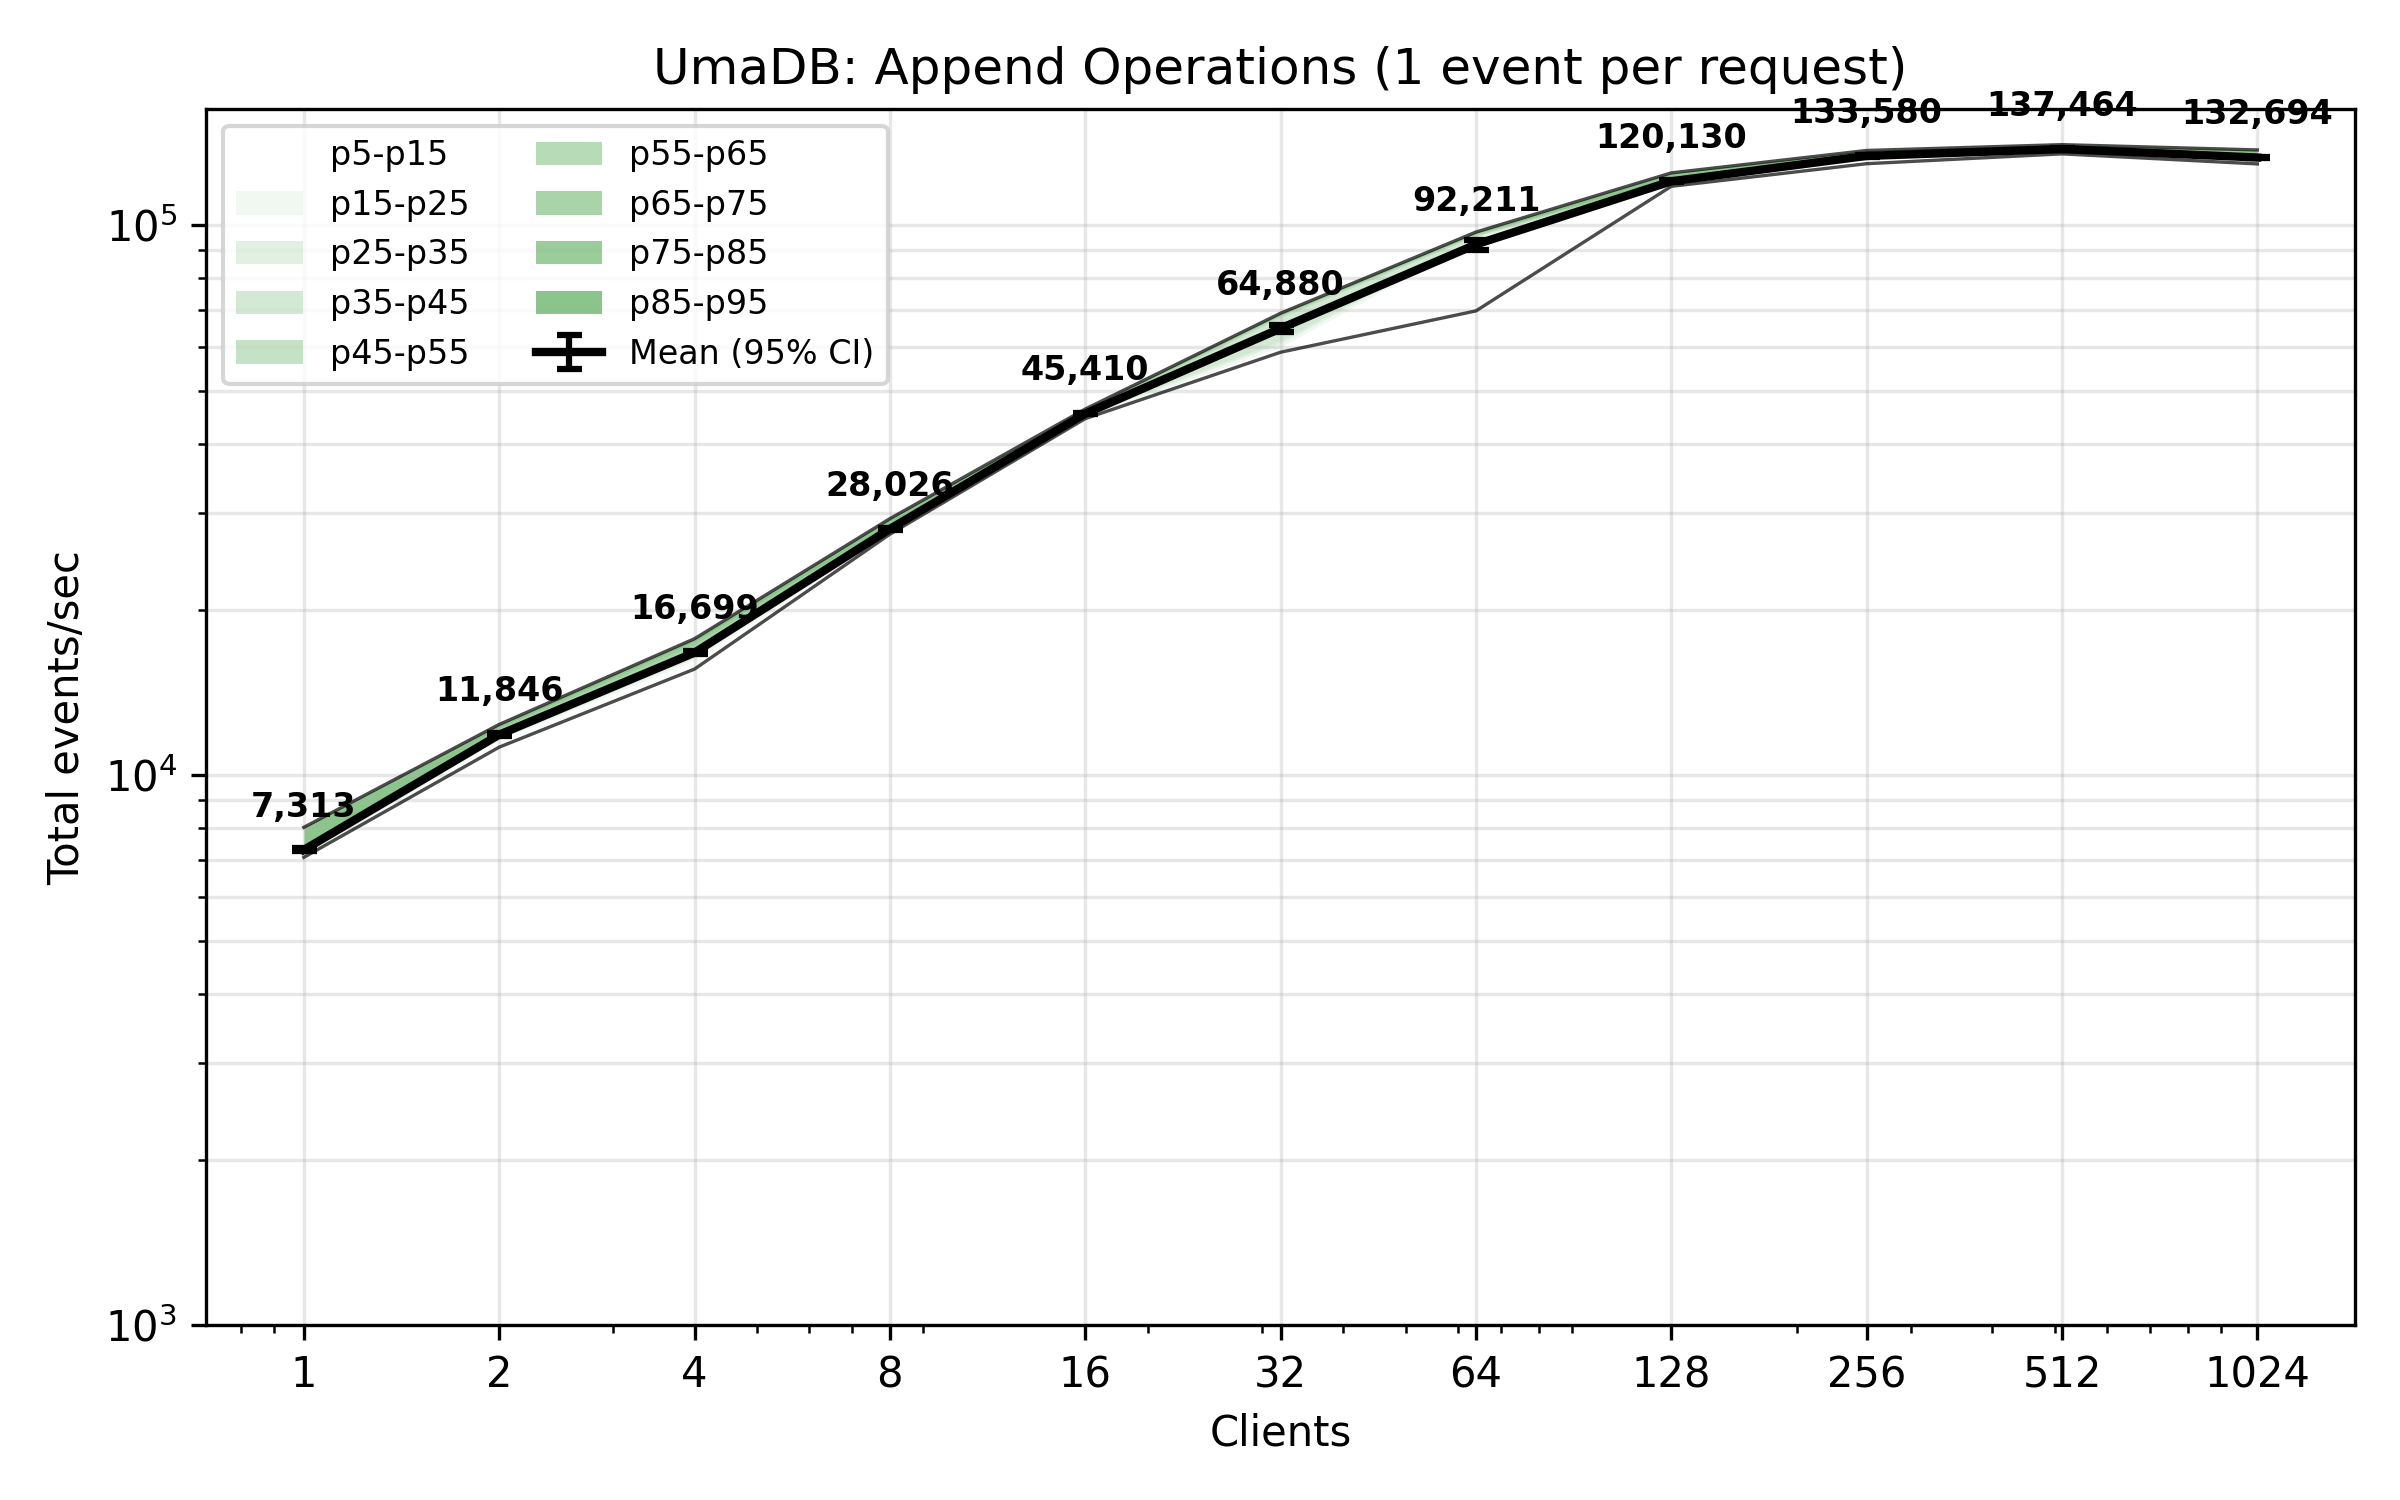
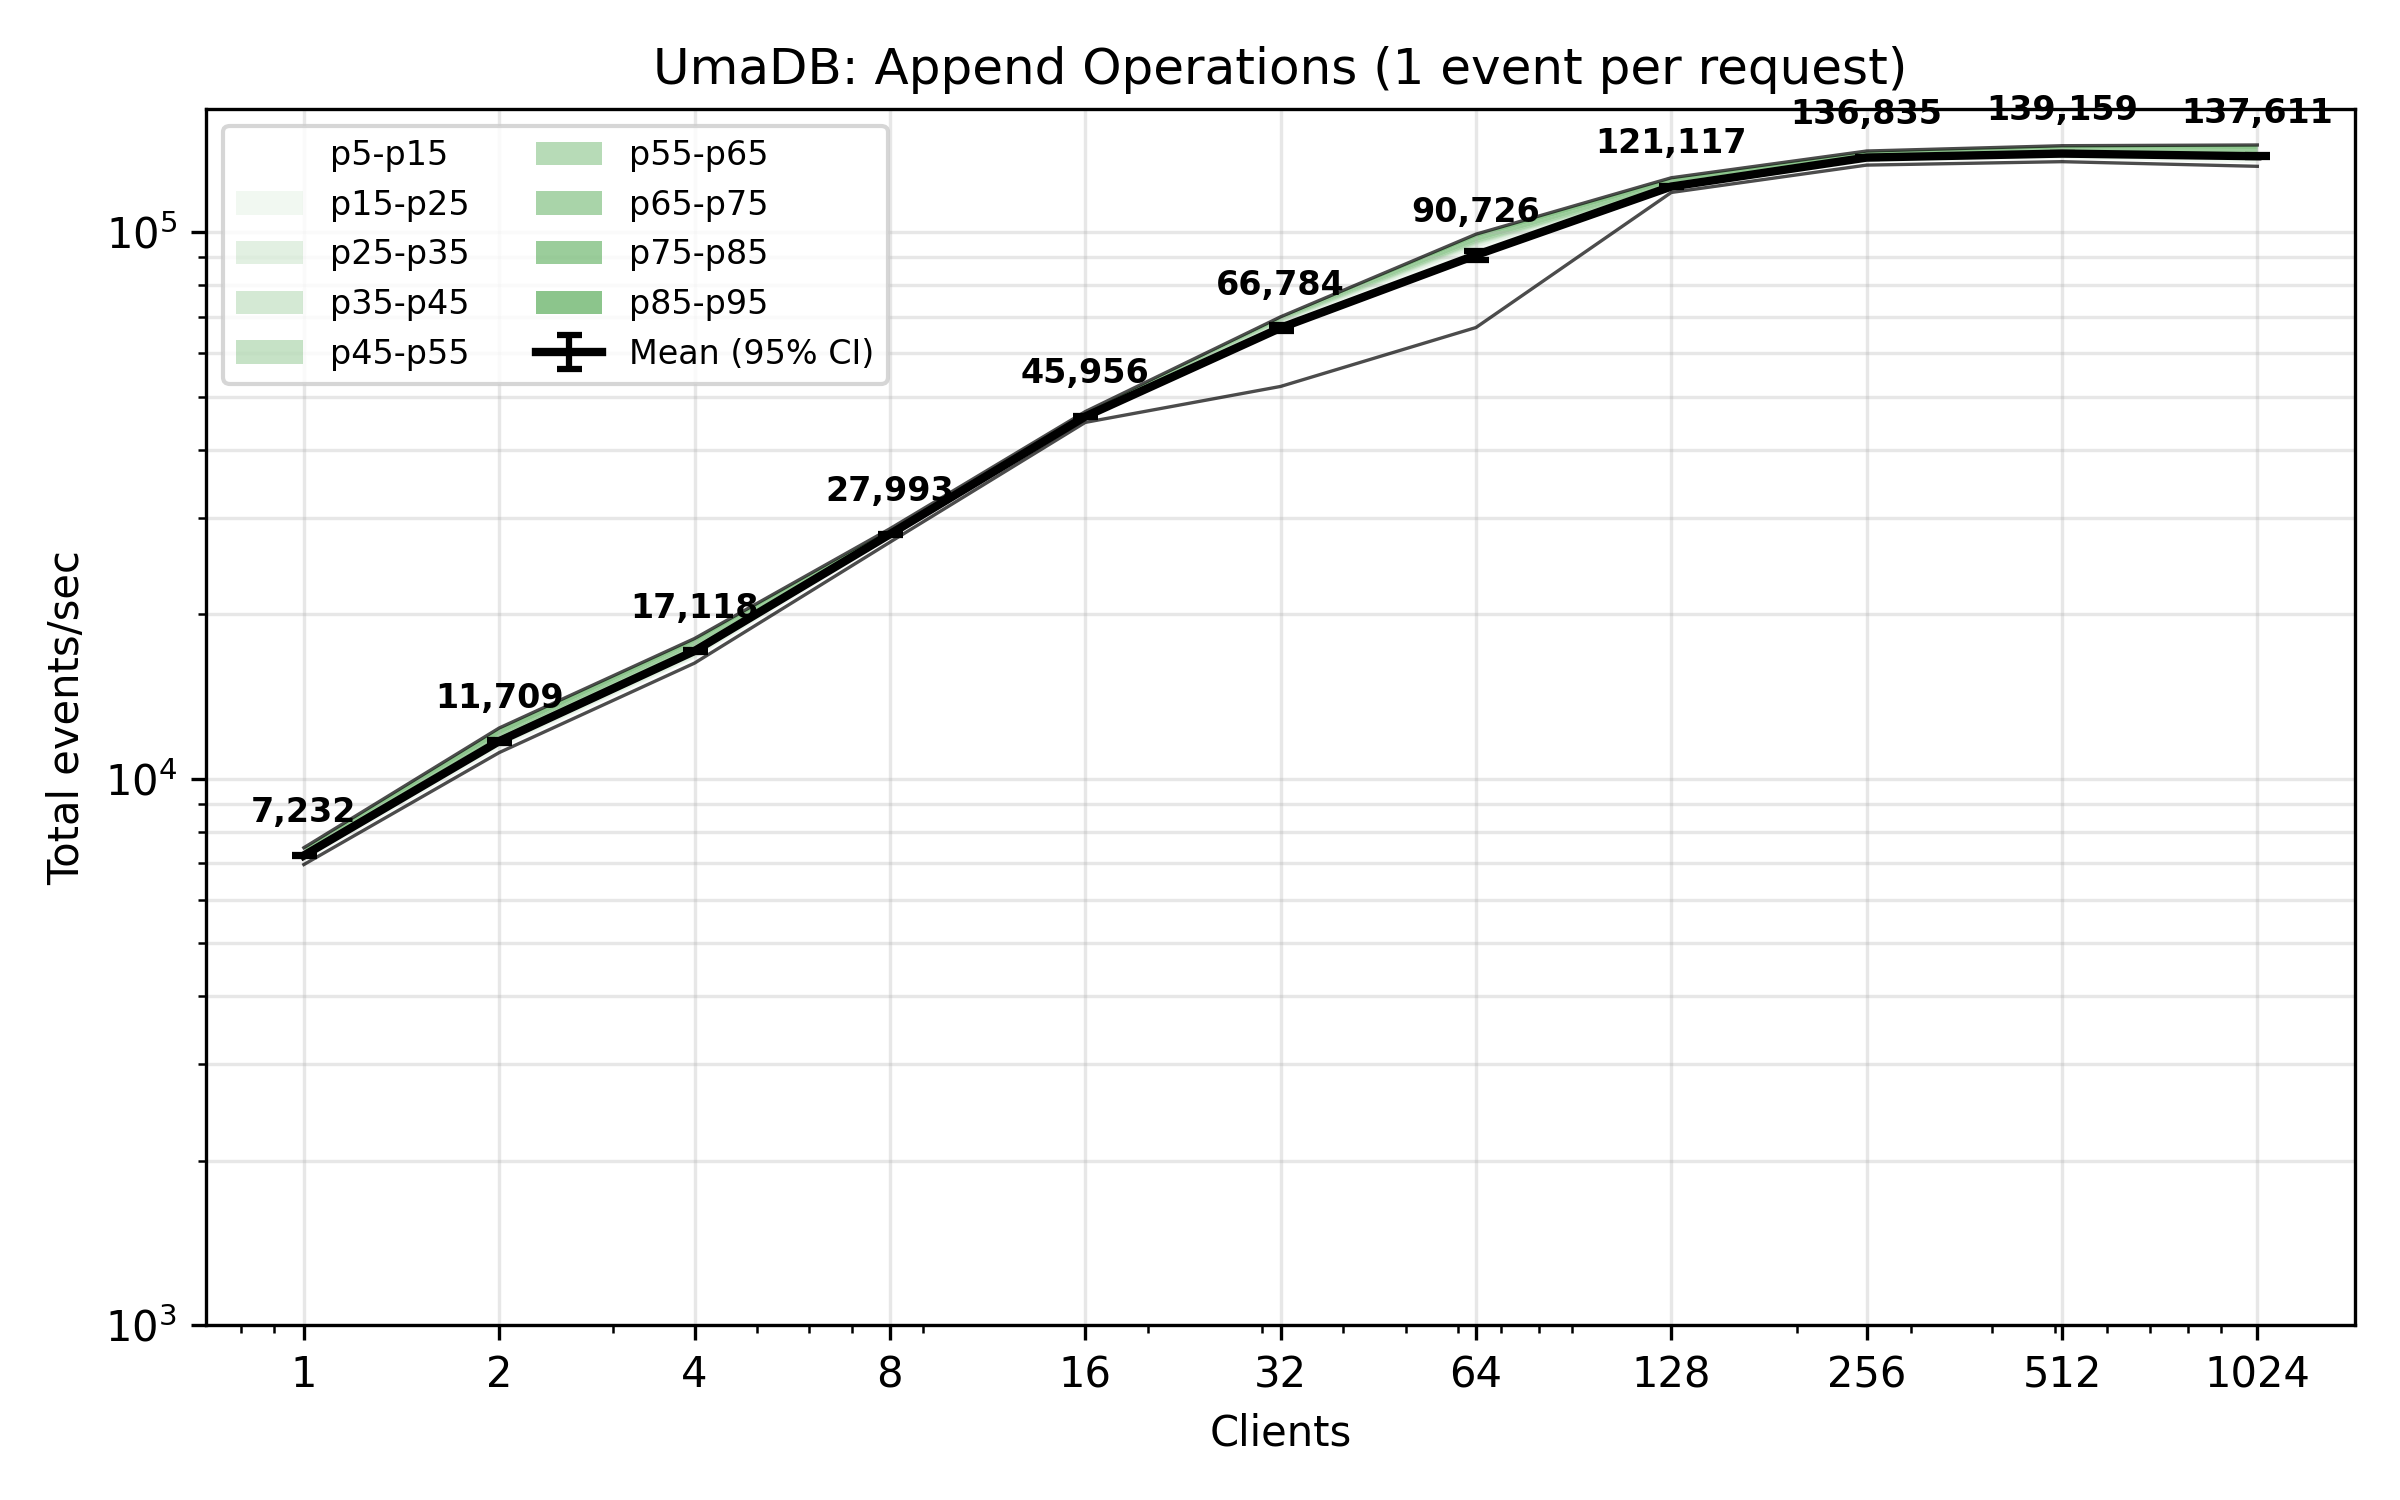
Adjusted benchmark plots and sample size to optionally do a shorter run only to MAX_THREADS.

Changed region(s): [[0.0938, 0.0613, 0.9688, 0.5827], [0.0625, 0.1227, 0.0938, 0.1533]]

diff --git a/crates/benches/benches/grpc_append_bench.rs b/crates/benches/benches/grpc_append_bench.rs
@@ -20,6 +20,12 @@ fn get_events_per_request() -> usize {
         .unwrap_or(10)
 }
 
+fn get_max_threads() -> Option<usize> {
+    std::env::var("MAX_THREADS")
+        .ok()
+        .and_then(|s| s.parse().ok())
+}
+
 fn init_db_with_events(num_events: usize) -> (tempfile::TempDir, String) {
     let dir = tempdir().expect("tempdir");
     let path = dir.path().to_str().unwrap().to_string();
@@ -57,7 +63,15 @@ pub fn grpc_append_benchmark(c: &mut Criterion) {
     group.sample_size(200);
     group.measurement_time(Duration::from_secs(10));
 
-    for &threads in &[1usize, 2, 4, 8, 16, 32, 64, 128, 256, 512, 1024] {
+    let all_threads = [1usize, 2, 4, 8, 16, 32, 64, 128, 256, 512, 1024];
+    let max_threads = get_max_threads();
+    let thread_counts: Vec<usize> = all_threads
+        .iter()
+        .copied()
+        .filter(|&t| max_threads.map_or(true, |max| t <= max))
+        .collect();
+
+    for &threads in &thread_counts {
         // Initialize DB and server with 10_000 events (as requested)
         let initial_events = 10_000usize;
         let (_tmp_dir, db_path) = init_db_with_events(initial_events);

diff --git a/crates/benches/benches/grpc_append_bench_plot.py b/crates/benches/benches/grpc_append_bench_plot.py
@@ -6,9 +6,11 @@ import os
 
 # Keep this in sync with benches/grpc_append
 EVENTS_PER_REQUEST = int(os.environ.get('EVENTS_PER_REQUEST', '10'))  # number of events appended per client request
+MAX_THREADS = int(os.environ.get('MAX_THREADS', '0')) if os.environ.get('MAX_THREADS') else None
 
 # Thread variants you ran (match the bench). Edit if you change the bench.
-threads = [1, 2, 4, 8, 16, 32, 64, 128, 256, 512, 1024]
+all_threads = [1, 2, 4, 8, 16, 32, 64, 128, 256, 512, 1024]
+threads = [t for t in all_threads if MAX_THREADS is None or t <= MAX_THREADS]
 
 x = []
 mean_throughputs = []
